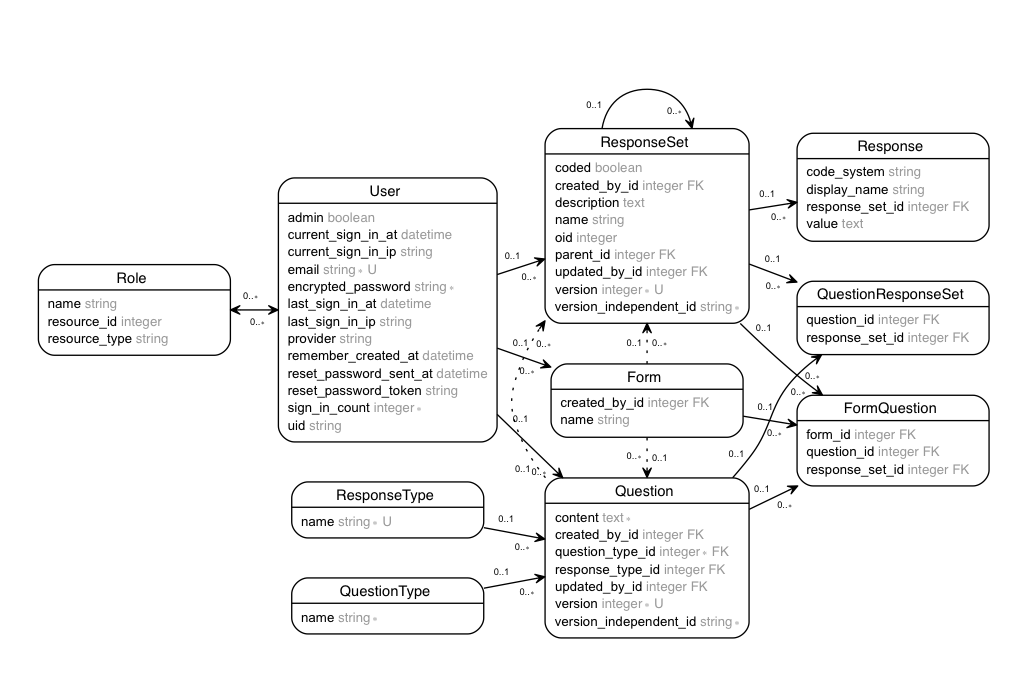
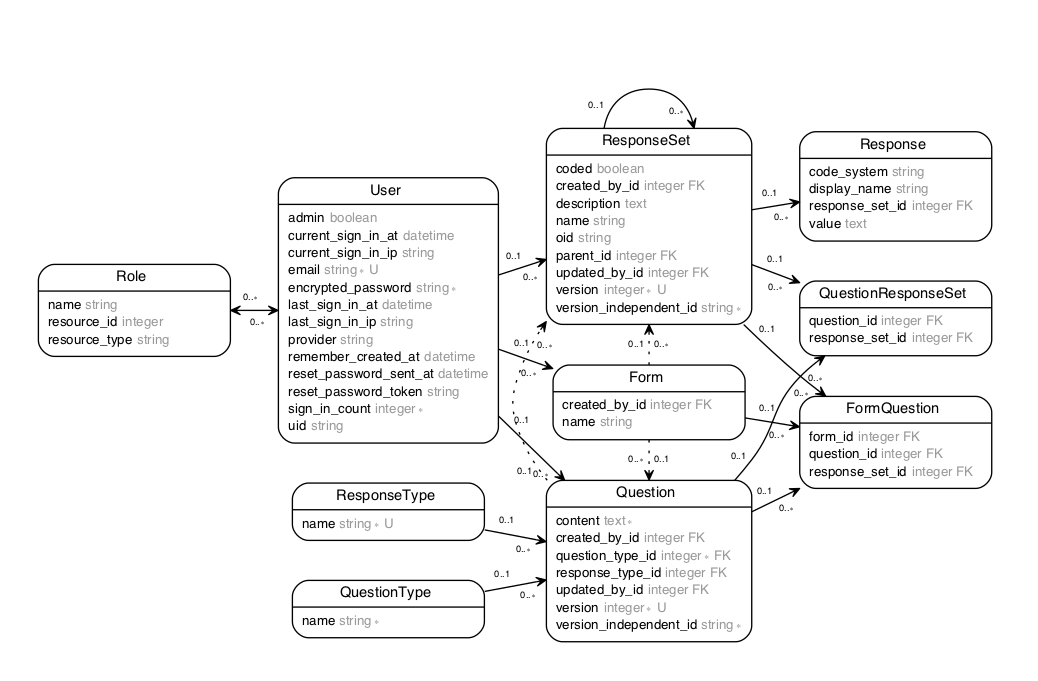
Fixed bug with OID being an integer, regenerated erd

diff --git a/db/schema.rb b/db/schema.rb
@@ -10,7 +10,7 @@
 #
 # It's strongly recommended that you check this file into your version control system.
 
-ActiveRecord::Schema.define(version: 20161128165704) do
+ActiveRecord::Schema.define(version: 20161212171545) do
 
   # These are extensions that must be enabled in order to support this database
   enable_extension "plpgsql"
@@ -72,7 +72,7 @@ ActiveRecord::Schema.define(version: 20161128165704) do
   create_table "response_sets", force: :cascade do |t|
     t.string   "name"
     t.text     "description"
-    t.integer  "oid"
+    t.string   "oid"
     t.datetime "created_at",                         null: false
     t.datetime "updated_at",                         null: false
     t.integer  "created_by_id"

diff --git a/db/migrate/20161212171545_change_oid_in_response_sets.rb b/db/migrate/20161212171545_change_oid_in_response_sets.rb
@@ -1,0 +1,5 @@
+class ChangeOidInResponseSets < ActiveRecord::Migration[5.0]
+  def change
+    change_column :response_sets, :oid, :string
+  end
+end
